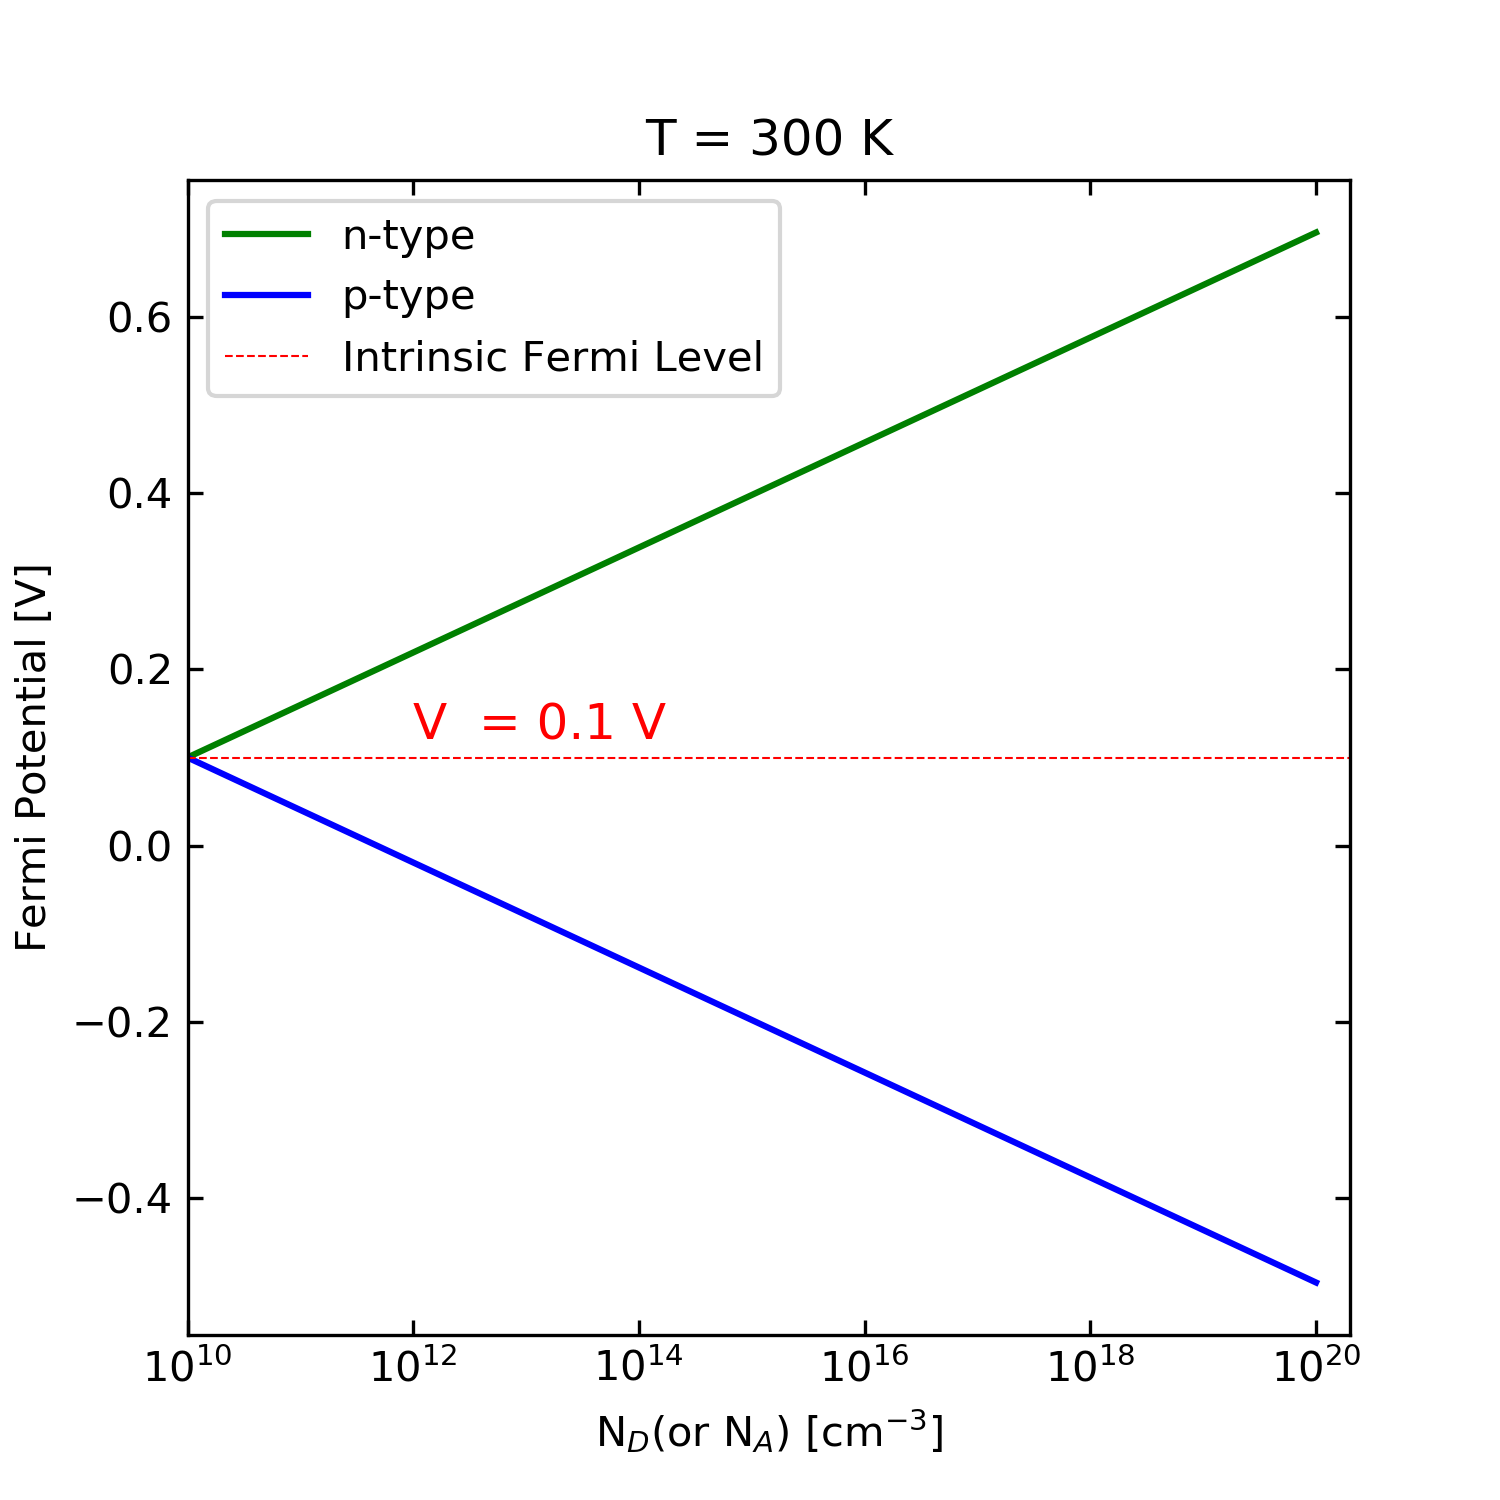
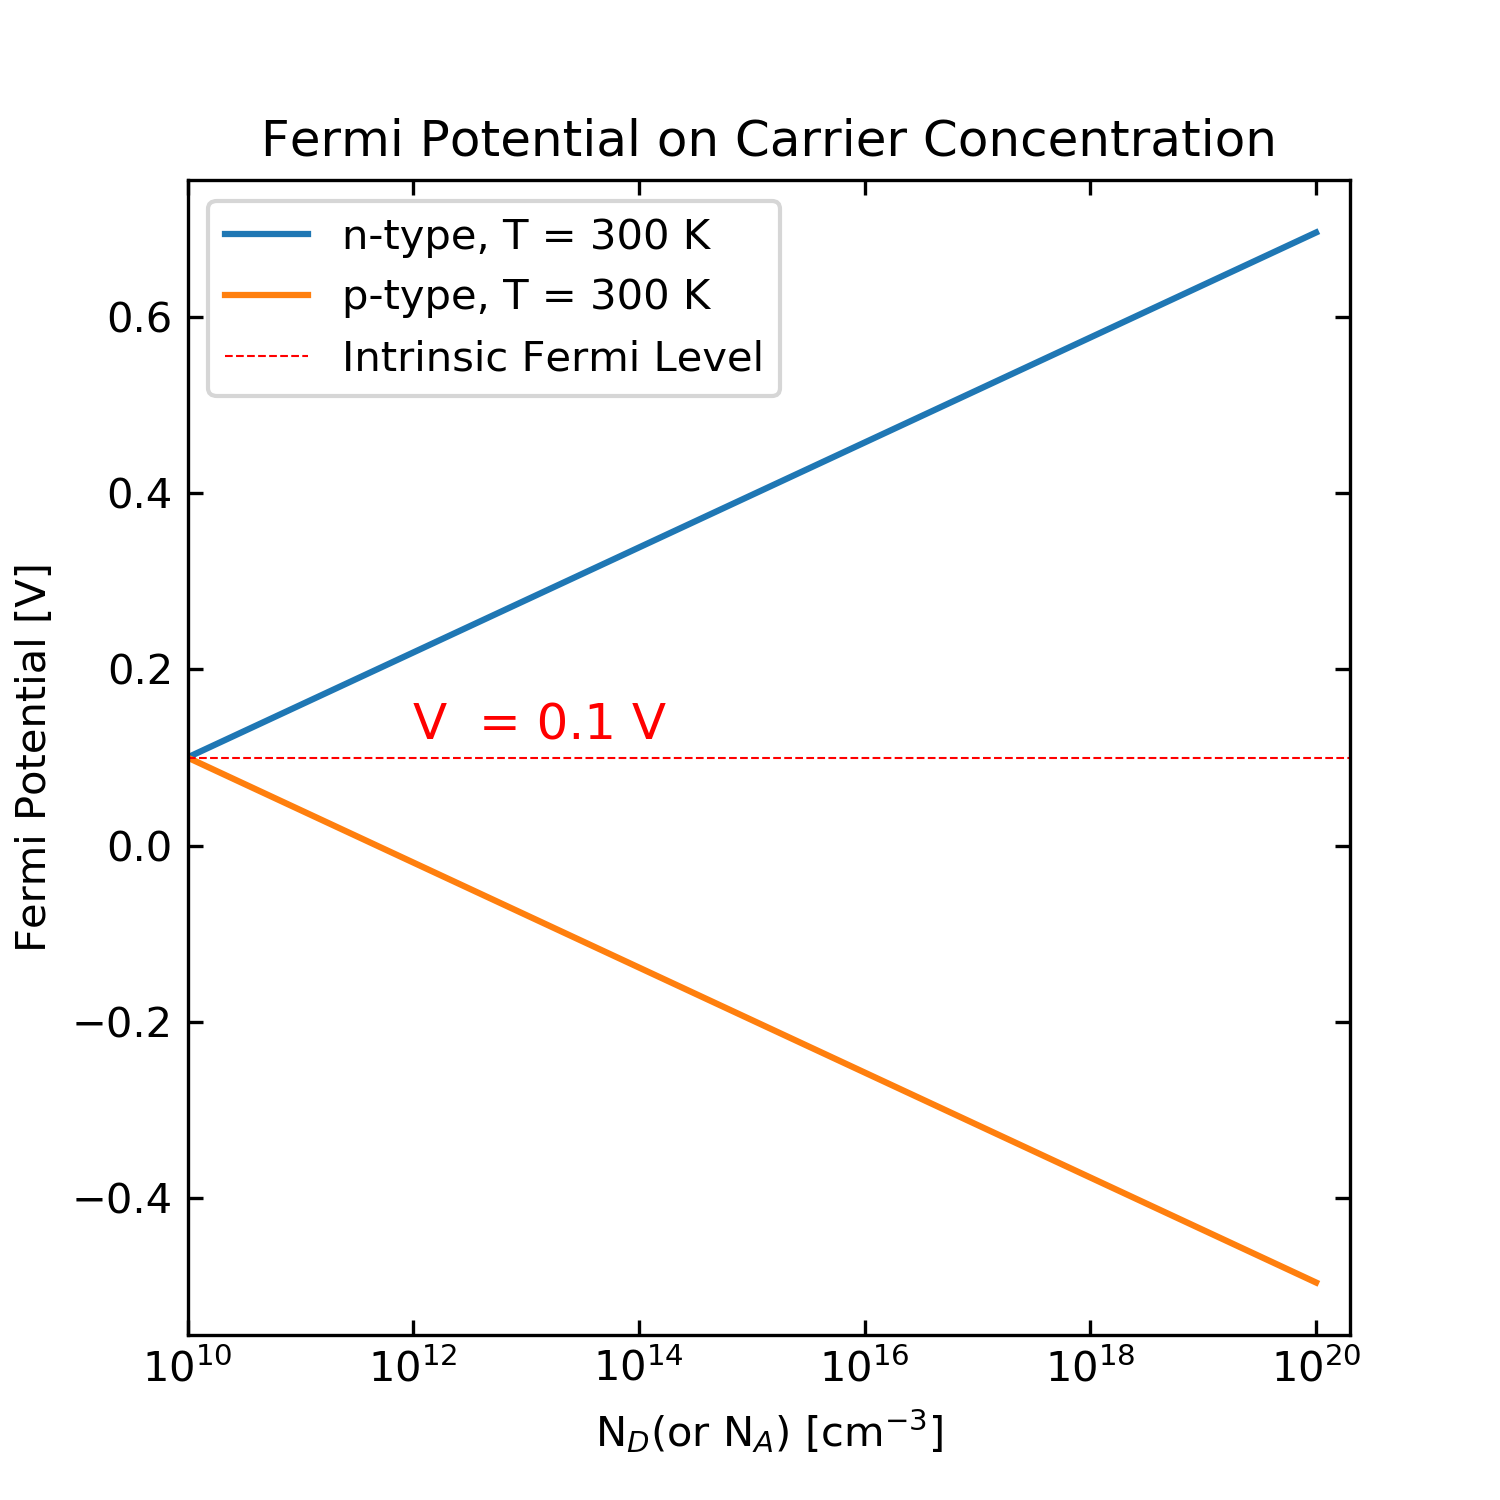
04/18/2020

diff --git a/fermi_potential.py/fermi_potential_shift_wt_doping.py b/fermi_potential.py/fermi_potential_shift_wt_doping.py
@@ -27,33 +27,70 @@ def fermi_potential_shift(T, fermi_int, intrinsic_carrier, major_carrier, state)
     fermi_pot = fermi_int  + phi_T * np.log(major_carrier/intrinsic_carrier)
     return fermi_pot
 
-# for n-type doping 
-T = 300   # in Kelvins
+# Room temperature study
+#for  n-type doping
+T = 300     # in Kelvin
 fermi_int = 0.1   # in Volts and is taken arbitrary
 intrinsic_carrier = 1e10  # per cm^3
 x = np.arange(10, 21, 1, dtype=float)
 n_carrier = np.power(10, x)   # different donor-doping concentration per cm3 
 state = 1
 potential_n = fermi_potential_shift(T, fermi_int, intrinsic_carrier, n_carrier, state)
-
 # for p-type doping 
 p_carrier = np.power(10, x)   # different donor-doping concentration per cm3 
 state = -1
 potential_p = fermi_potential_shift(T, fermi_int, intrinsic_carrier, p_carrier, state)
-
-
 fig, ax = plt.subplots(1,1, figsize=(5, 5), dpi= 150)
-
-
-ax.semilogx(n_carrier, potential_n, 'g', label = 'n-type')
-ax.semilogx(p_carrier, potential_p, 'b', label = 'p-type')
+ax.semilogx(n_carrier, potential_n,  label = 'n-type, T = 300 K')
+ax.semilogx(p_carrier, potential_p,  label = 'p-type, T = 300 K')
 #ax.axvline(x=0, c='r', ls='--',lw='0.5', label = 'pn junction')
 ax.axhline(y=0.1, c ='r', ls='--',lw='0.5', label = 'Intrinsic Fermi Level')
-
 ax.set_xlabel(r'N$_{D}$(or N$_{A}$) [cm$^{-3}$]')
 ax.set_ylabel('Fermi Potential [V]')
 ax.set_xlim(1e10, 2e20)
 ax.legend(loc =2)
 ax.text(1e12, 0.12, 'V  = 0.1 V', c='r', fontsize=12)
-ax.set_title('T = 300 K')
+ax.set_title('Fermi Potential on Carrier Concentration')
+plt.show()
+
+# Temperature dependence study
+T = np.arange(250, 360, 10, dtype=float)  # temperature range
+
+# for n-type doping 
+for i in range(len(T)):
+    #print(T[i])
+    fermi_int = 0.1   # in Volts and is taken arbitrary
+    intrinsic_carrier = 1e10  # per cm^3
+    x = np.arange(10, 21, 1, dtype=float)
+    n_carrier = np.power(10, x)   # different donor-doping concentration per cm3 
+    state = 1
+    potential_n = fermi_potential_shift(T[i], fermi_int, intrinsic_carrier, n_carrier, state)
+    plt.semilogx(n_carrier, potential_n,  label = r'{} K'.format(T[i]))
+    plt.hlines(y=0.1, xmin= n_carrier.min(), xmax=n_carrier.max(), colors='r', linestyles='--',linewidth=.5)
+    plt.xlabel(r'Donor Concentration (N$_{D}$) [cm$^{-3}$]')
+    plt.ylabel('Fermi Potential [V]')
+    plt.xlim(1e10, 2e20)
+    plt.legend(loc =2)
+    plt.text(1e12, 0.12, 'V  = 0.1 V', c='r', fontsize=12)
+    plt.title(r'n-type semiconductor')
+plt.show()
+
+
+# for p-type doping 
+for i in range(len(T)):
+    #print(T[i])
+    fermi_int = 0.1   # in Volts and is taken arbitrary
+    intrinsic_carrier = 1e10  # per cm^3
+    x = np.arange(10, 21, 1, dtype=float)
+    p_carrier = np.power(10, x)   # different acceptor-doping concentration per cm3 
+    state = 1
+    potential_p = fermi_potential_shift(T[i], fermi_int, intrinsic_carrier, p_carrier, state)
+    plt.semilogx(n_carrier, potential_p,  label = r'{} K'.format(T[i]))
+    plt.hlines(y=0.1, xmin= n_carrier.min(), xmax=n_carrier.max(), colors='b', linestyles='--',linewidth=.5)
+    plt.xlabel(r'Acceptor Concentration (N$_{A}$) [cm$^{-3}$]')
+    plt.ylabel('Fermi Potential [V]')
+    plt.xlim(1e10, 2e20)
+    plt.legend(loc =2)
+    plt.text(1e12, 0.12, 'V  = 0.1 V', c='b', fontsize=12)
+    plt.title(r'p-type semiconductor')
 plt.show()
